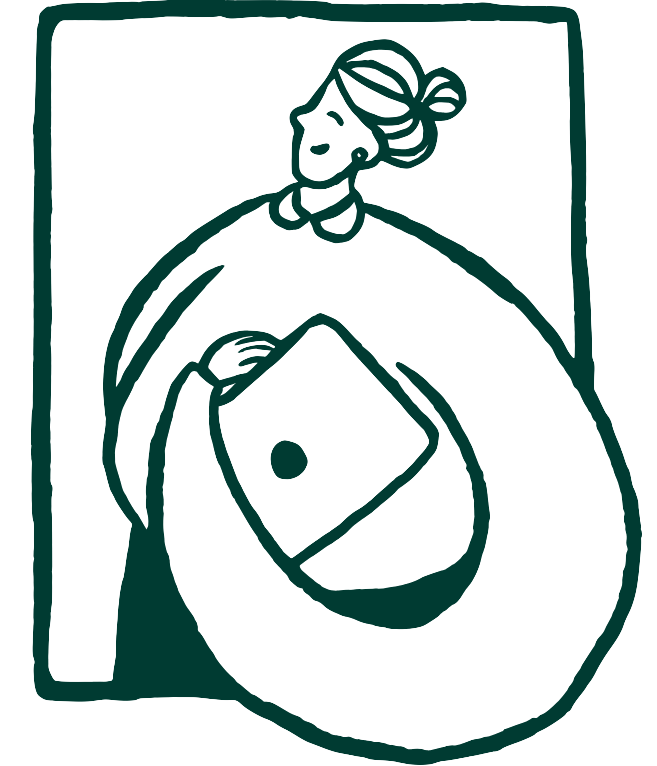
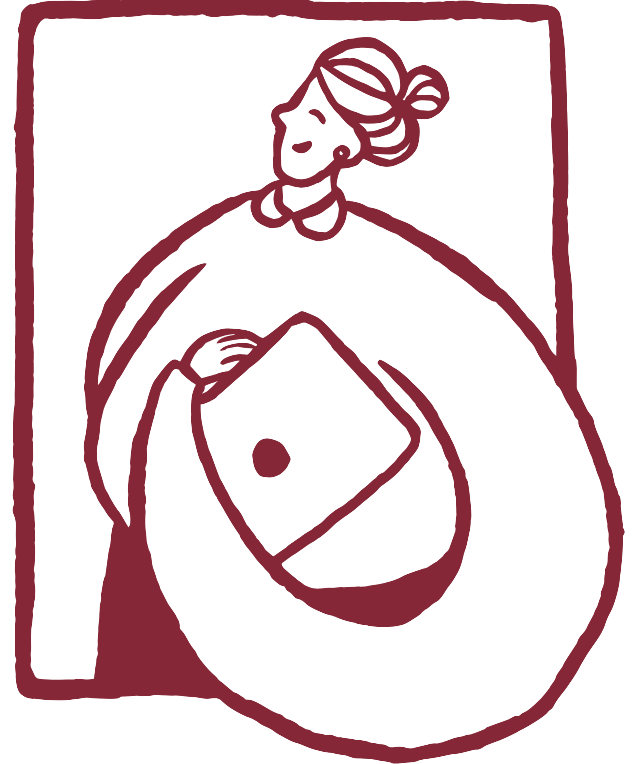
redesign + contact block

Changed region(s): [[0.0, 0.0, 0.9921, 1.0], [0.3908, 0.572, 0.481, 0.6322]]

diff --git a/css/styles.css b/css/styles.css
@@ -5,8 +5,10 @@
   --fontsize-body: clamp(1rem, 1rem + 4vw, 1.7rem);
   --fontfam-body: "Cabin", sans-serif;
   --fontfam-title: "Finger Paint", sans-serif;
-  --primary-text-color: #16404D;
-  --background-color: #F8F5E9; 
+  --background-color: #e2c99e; 
+  --primary-text-color: #852736;
+  --secondary-color: #c1121f;
+  --tertiary-color: #fdf0d5;
 }
 
 * {
@@ -52,6 +54,9 @@ hr {
   width: 4%;
   margin: 75px auto;
 }
+.space {
+  height: 80px;
+}
 .presentation {
   min-height: calc(100vh - 80px);
   padding: 32px 24px;
@@ -86,16 +91,20 @@ a {
 }
 .project {
   width: 100%;
-  background: #D0DDD0;
+  background: var(--tertiary-color);
   border-radius: 8px;
-  height: 268px;
+  color: var(--secondary-color);
+  padding: 16px;
+}
+.project a {
+  color: var(--secondary-color);
+  text-decoration: underline;
 }
 .project img {
   width: 100%;
   height: 165px;
   object-fit: cover;
   object-position: top;
-  border-radius: 1rem 1rem 0 0;
 }
 .project-back-side {
   display: none;
@@ -105,9 +114,6 @@ a {
 }
 .project-front-side {
   text-align: left;
-}
-.project-content {
-  padding: 16px;
 }
 .project-headline {
   font-size: 1.5rem;
@@ -124,8 +130,32 @@ a {
 .project:hover .project-back-side {
   display: grid;
 }
+.contact {
+  background: var(--primary-text-color);
+  color: var(--tertiary-color);
+  padding: 32px;
+  text-align: left;
+  display: grid;
+}
+.contact .container {
+  width: 100%;
+  margin-top: 0;
+}
+.contact .say-hello {
+  background: var(--tertiary-color);
+  padding: 16px;
+  border-radius: 1rem;
+  font-size: 1rem;
+  width: fit-content;
+  color: var(--secondary-color);
+  display: block;
+}
 footer {
   font-size: 16px;
+  padding: 24px;
+}
+footer * {
+  margin: 0;
 }
 @media (min-width: 500px) {
   .presentation {
@@ -133,14 +163,18 @@ footer {
   }
   .projects-container {
     grid-template-columns: 1fr 1fr;
+    grid-template-rows: 1fr 1fr;
+  }
+  .project {
+    padding: 24px;
   }
 }
 @media (min-width: 1000px) {
-  nav {
-    height: 140px;
+  nav, .space {
+    height: 100px;
   }
   .container {
-    margin: 140px auto 0;
+    margin: 0 auto;
     max-width: 1200px;
   }
   .prensentation {
@@ -149,9 +183,9 @@ footer {
   .projects-container {
     grid-template-columns: 1fr 1fr 1fr;
   }
-  .project {
+  /*.project {
     height: 303px;
-  }
+  }*/
   .project img {
     height: 200px;
   }

diff --git a/index.html b/index.html
@@ -22,6 +22,8 @@
       <img src="./images/mynewlogo.png" alt="Kath Logo Website" />
     </nav>
 
+    <div class="space"></div>
+
     <div class="container">
       
       <div class="presentation">
@@ -94,12 +96,51 @@
             </div>
           </div>
           <!-- Best Life -->
+          <div class="project">
+            <div class="project-front-side">
+              <img src="/images/reliability.png" alt="Reliability Web" />
+              <div class="project-content">
+                <div class="project-headline">Best Life</div>
+                <div class="project-type">Website Company</div>
+                <div class="project-tools">
+                  React, Javascript, HTML, CSS, HuggingFace
+                </div>
+              </div>
+            </div>
+            <div class="project-back-side">
+              Company Website where I collaborated in building of lalala
+            </div>
+          </div>
+          <!-- HeatMaps -->
+          <div class="project">
+            <div class="project-front-side">
+              <img src="/images/reliability.png" alt="Reliability Web" />
+              <div class="project-content">
+                <div class="project-headline">HeatMaps</div>
+                <div class="project-type">Website Company</div>
+                <div class="project-tools">
+                  React, Javascript, HTML, CSS, HuggingFace
+                </div>
+              </div>
+            </div>
+            <div class="project-back-side">
+              Company Website where I collaborated in building of lalala
+            </div>
+          </div>
+
         </div>
       </div>
-
-      <footer class="footer">
-        <p>Made by Katherine Osorio</p>
-      </footer>
     </div>
+     <!-- Let's Get in Touch Banner -->
+     <div class="contact">
+      <div class="container">
+        <h2>Let's Get in Touch!</h2>
+        <a class="say-hello" href="mailto:kosoriowork@gmail.com">Say Hello 😎</a>   
+      </div>
+     </div>
+
+    <footer class="footer">
+      <p>Made by Katherine Osorio</p>
+    </footer>
   </body>
 </html>
